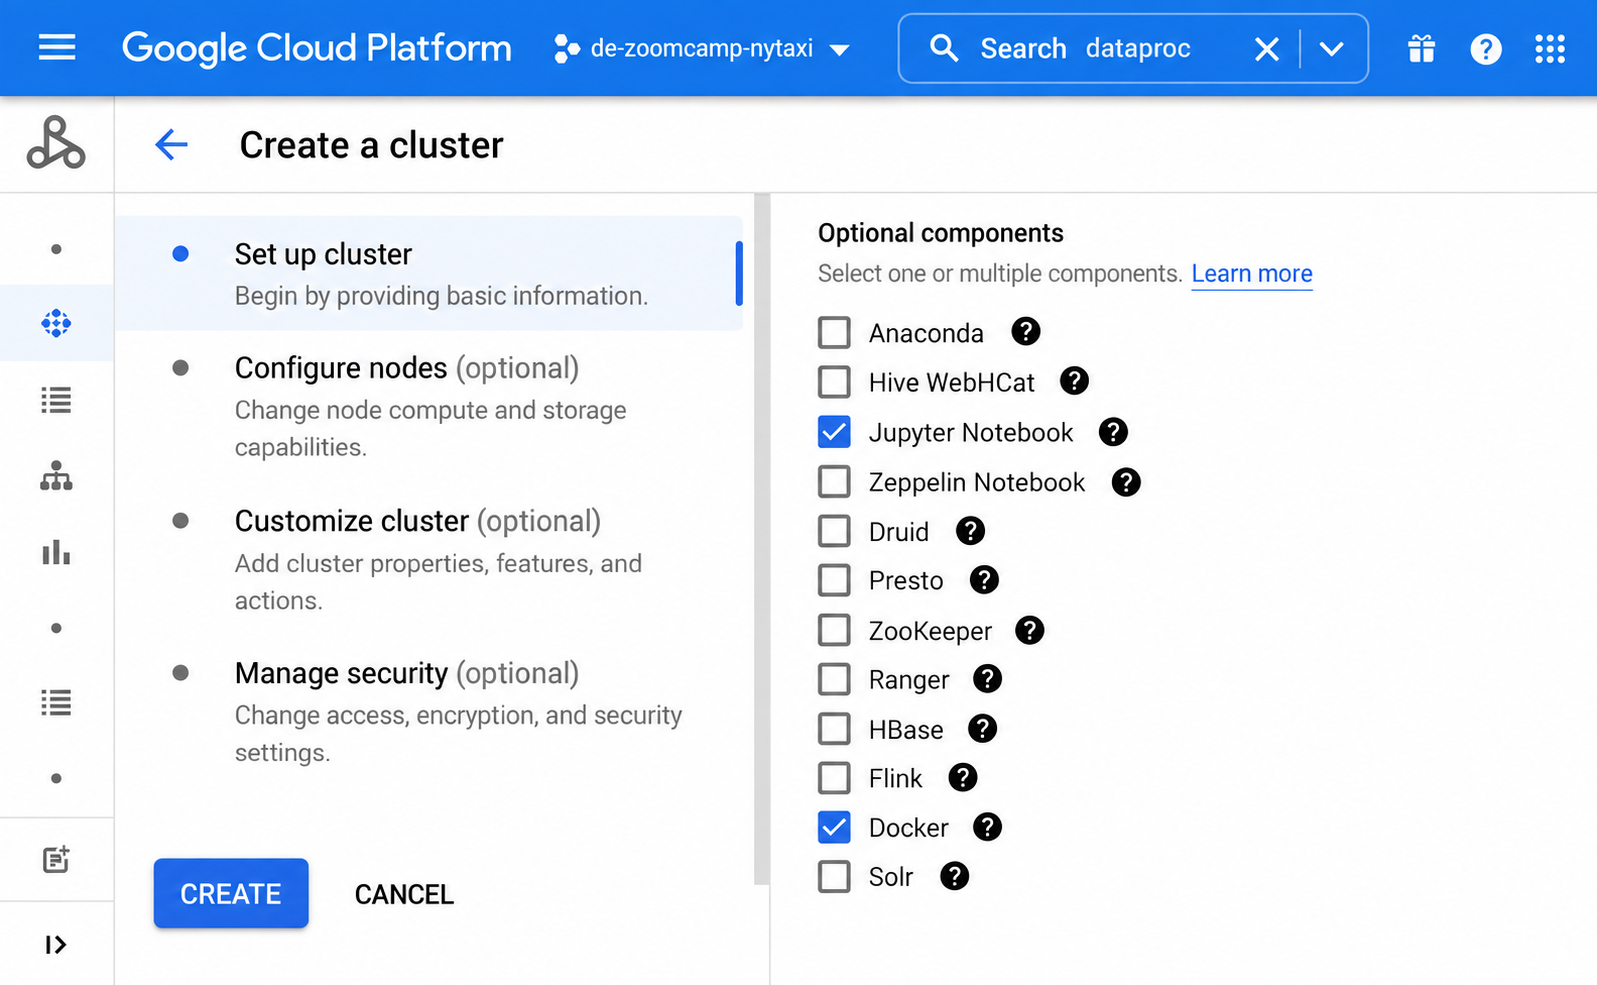
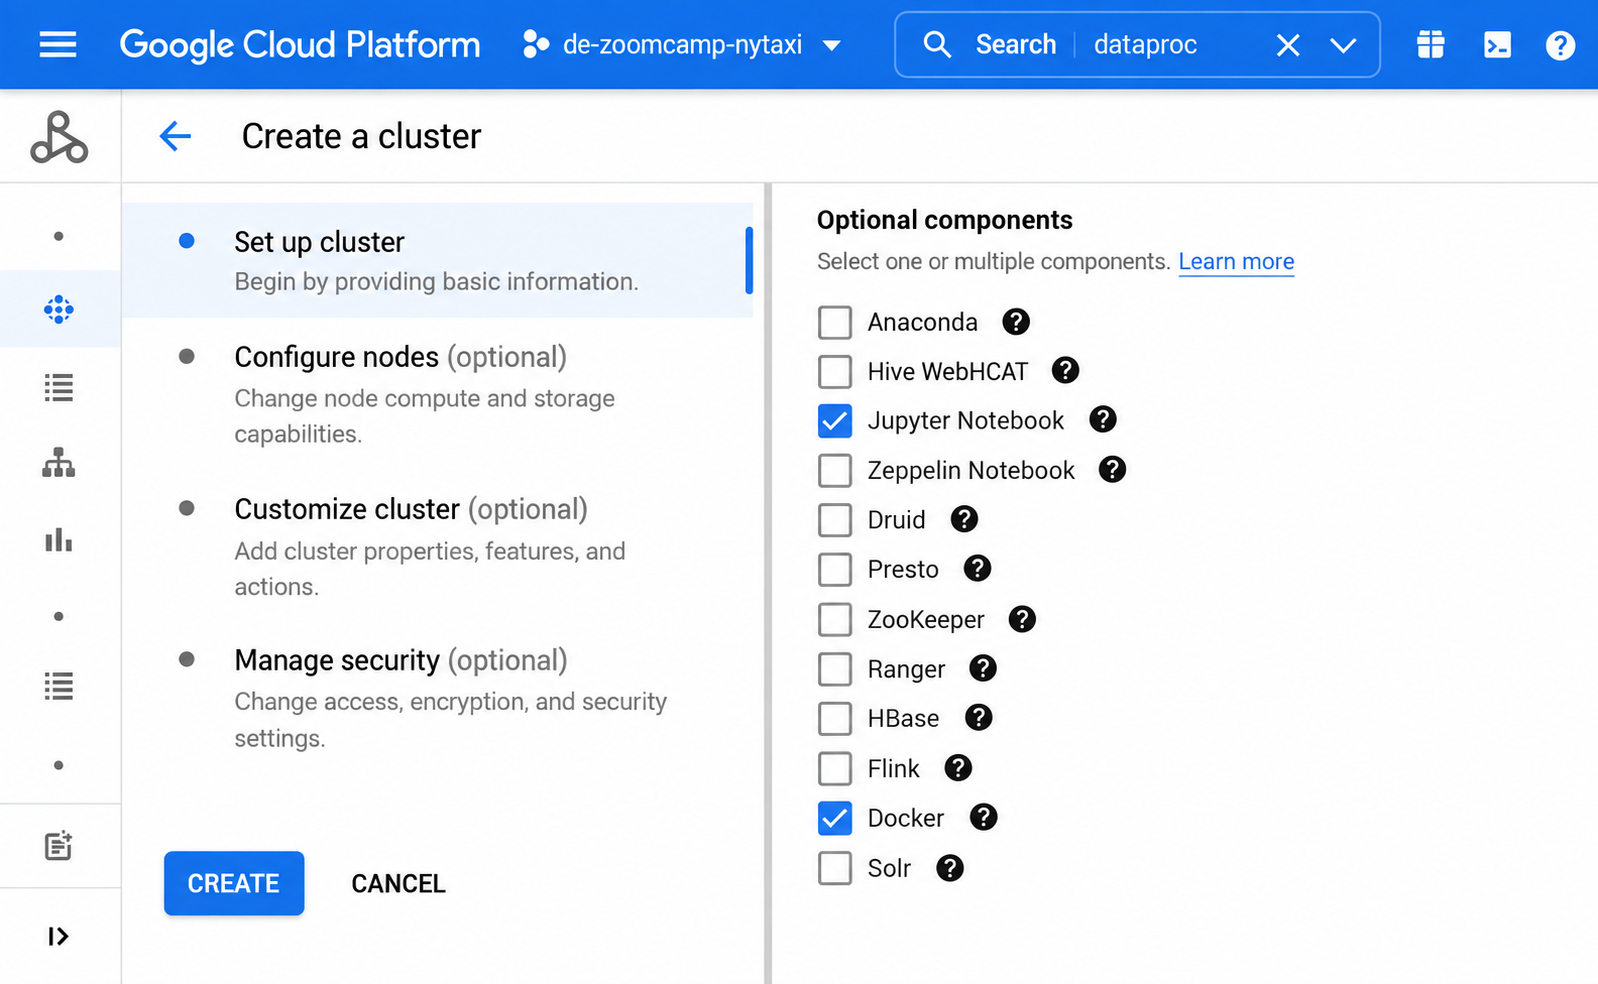
Regenerate Dataproc cluster illustration

diff --git a/cohorts/2027/06-batch/2026-09-09-follow-up-provenance.md b/cohorts/2027/06-batch/2026-09-09-follow-up-provenance.md
@@ -21,38 +21,65 @@ original `640×360` JPG before the imagegen repair.
 
 ## Dataproc create-cluster form
 
-| Published target | Original JPG SHA-256 | Bounded crop SHA-256 | Published output SHA-256 | Imagegen output | Validation |
+| Published target | Original JPG SHA-256 | Fresh bounded crop SHA-256 | Imagegen artifact SHA-256 | Published output SHA-256 | Validation |
 |---|---|---|---|---|---|
[2 lines of base64/hex data omitted]
 
-The retained bounded crop is
-`images/15-setting-up-a-dataproc-cluster-01-create-cluster-cropped.png`.
-It represents `x=0,y=30,w=535,h=330` in the original `640×360` JPG and is
-stored at `1070×660` after the documented 2× Lanczos raster step. The
-geometry can be reproduced with:
+The new imagegen input crop is retained at
+`images/15-setting-up-a-dataproc-cluster-01-create-cluster-imagegen-crop.png`.
+It is a native-resolution `535×330` crop at `x=0,y=30,w=535,h=330` from the
+original `640×360` JPG. It is intentionally not upscaled or sharpened before
+imagegen. The exact crop command, including the tool version used, is:
 
 ```bash
-ffmpeg -i 15-setting-up-a-dataproc-cluster-01-create-cluster.jpg \
-  -vf 'crop=535:330:0:30,scale=1070:660:flags=lanczos' \
-  15-setting-up-a-dataproc-cluster-01-create-cluster-cropped.png
+# ImageMagick 6.9.12-98 Q16 x86_64 18038
+convert 15-setting-up-a-dataproc-cluster-01-create-cluster.jpg \
+  -crop 535x330+0+30 +repage -strip -define png:exclude-chunk=tIME \
+  15-setting-up-a-dataproc-cluster-01-create-cluster-imagegen-crop.png
 ```
 
-The command documents the crop geometry only; it is not claimed to reproduce
-the historical reference bytes. A 2026-09-09 reproduction with FFmpeg
-`6.1.1-3ubuntu5` produced a `1070×660` PNG with SHA-256
[1 lines of base64/hex data omitted]
-Comparing that file with the retained crop gives `AE=265712` and
-`MAE=710.214`, so the historical sharpening/raster step is still missing.
-The retained crop hash above remains the authoritative record of the
-historical reference bytes, and the published crisp image was not changed.
+The resulting crop is SHA-256
[1 lines of base64/hex data omitted]
+The imagegen artifact was generated from both the original JPG and this fresh
+crop. It was saved at
+`/home/alexey/.codex/generated_images/01a0836e-71b4-7e51-81c7-c5b905ca6493/exec-64b34174-22aa-4a10-b641-ab7c83a96f31.png`, has SHA-256
[1 lines of base64/hex data omitted]
+copied without post-processing to the published target. The published target
+therefore has the identical SHA-256 and retains the imagegen C2PA metadata.
 
-The earlier batch rollout describes this operation only as “2x
-Lanczos/sharpen”; it does not record the sharpening filter, radius, sigma,
-amount, threshold, or tool version. This is the exact remaining provenance
-task: recover those parameters from the original worker run, or regenerate
-the bounded reference from the original JPG and imagegen input, then record
-the complete command, tool versions, crop/output hashes, and pixel comparison
-before changing any published asset.
+The exact imagegen prompt was:
+
+```text
+Use case: ui-mockup
+Asset type: high-resolution instructional lesson illustration
+Primary request: Recreate the Google Cloud Dataproc “Create a cluster” setup form as a clean, crisp, high-resolution raster illustration. Use Image 1 (the original non-crisp video frame) and Image 2 (the freshly bounded native-resolution crop) only as factual/layout references. Redraw the visible interface cleanly; do not upscale or sharpen the screenshot.
+Input images: Image 1: original non-crisp JPG, factual source; Image 2: freshly bounded crop, composition/detail reference.
+Scene/backdrop: clean white Google Cloud console interface with a blue cloud-console header and a narrow left navigation rail.
+Subject: the “Create a cluster” page. Keep the left setup navigation and the right “Optional components” checklist.
+Style/medium: faithful typeset UI redraw, precise vector-like edges, high-resolution bitmap output, neutral white background.
+Composition/framing: wide landscape composition matching the reference; show the complete relevant form area, including the “Create a cluster” heading, left setup steps, right optional-components checklist, and Create/Cancel controls.
+Text (verbatim): “Google Cloud Platform”, “de-zoomcamp-nytaxi”, “Search”, “dataproc”, “Create a cluster”, “Set up cluster”, “Begin by providing basic information.”, “Configure nodes (optional)”, “Change node compute and storage capabilities.”, “Customize cluster (optional)”, “Add cluster properties, features, and actions.”, “Manage security (optional)”, “Change access, encryption, and security settings.”, “Optional components”, “Select one or multiple components.”, “Learn more”, “Anaconda”, “Hive WebHCAT”, “Jupyter Notebook”, “Zeppelin Notebook”, “Druid”, “Presto”, “ZooKeeper”, “Ranger”, “HBase”, “Flink”, “Docker”, “Solr”, “CREATE”, “CANCEL”.
+Constraints: preserve the factual layout and exact labels from the references; Jupyter Notebook and Docker are checked; all other optional components are unchecked; keep the selected project text “de-zoomcamp-nytaxi”; retain the blue header and console navigation as clean UI context.
+Avoid: the presenter’s face, webcam circle, browser tabs/address bar, browser chrome, cursor, annotations, handwritten marks, selection highlights, watermarks, invented fields, altered labels, extra components, illegible text, cropped checklist rows, and any screenshot-like blur or simple enlargement.
+```
+
+The prior `images/15-setting-up-a-dataproc-cluster-01-create-cluster-cropped.png`
+is retained as historical audit evidence for the superseded output. Its
+`1070×660` bytes were produced by an undocumented 2× Lanczos/sharpen step and
+could not be reproduced (`AE=265712`, `MAE=710.214`); it is not an input to
+the new imagegen chain and is no longer used to substantiate the published
+output.
+
+For the required display check, resize the published output without sharpening:
+
+```bash
+convert 15-setting-up-a-dataproc-cluster-01-create-cluster-crisp.png \
+  -resize '608x608>' /tmp/dataproc-create-cluster-608.png
+```
+
+Expected render dimensions are `608×374`; inspect both the native target and
+that render for readable labels, complete checklist rows, and absence of
+camera/browser/overlay artifacts.
 
 ## Dataproc reports in bucket
 
